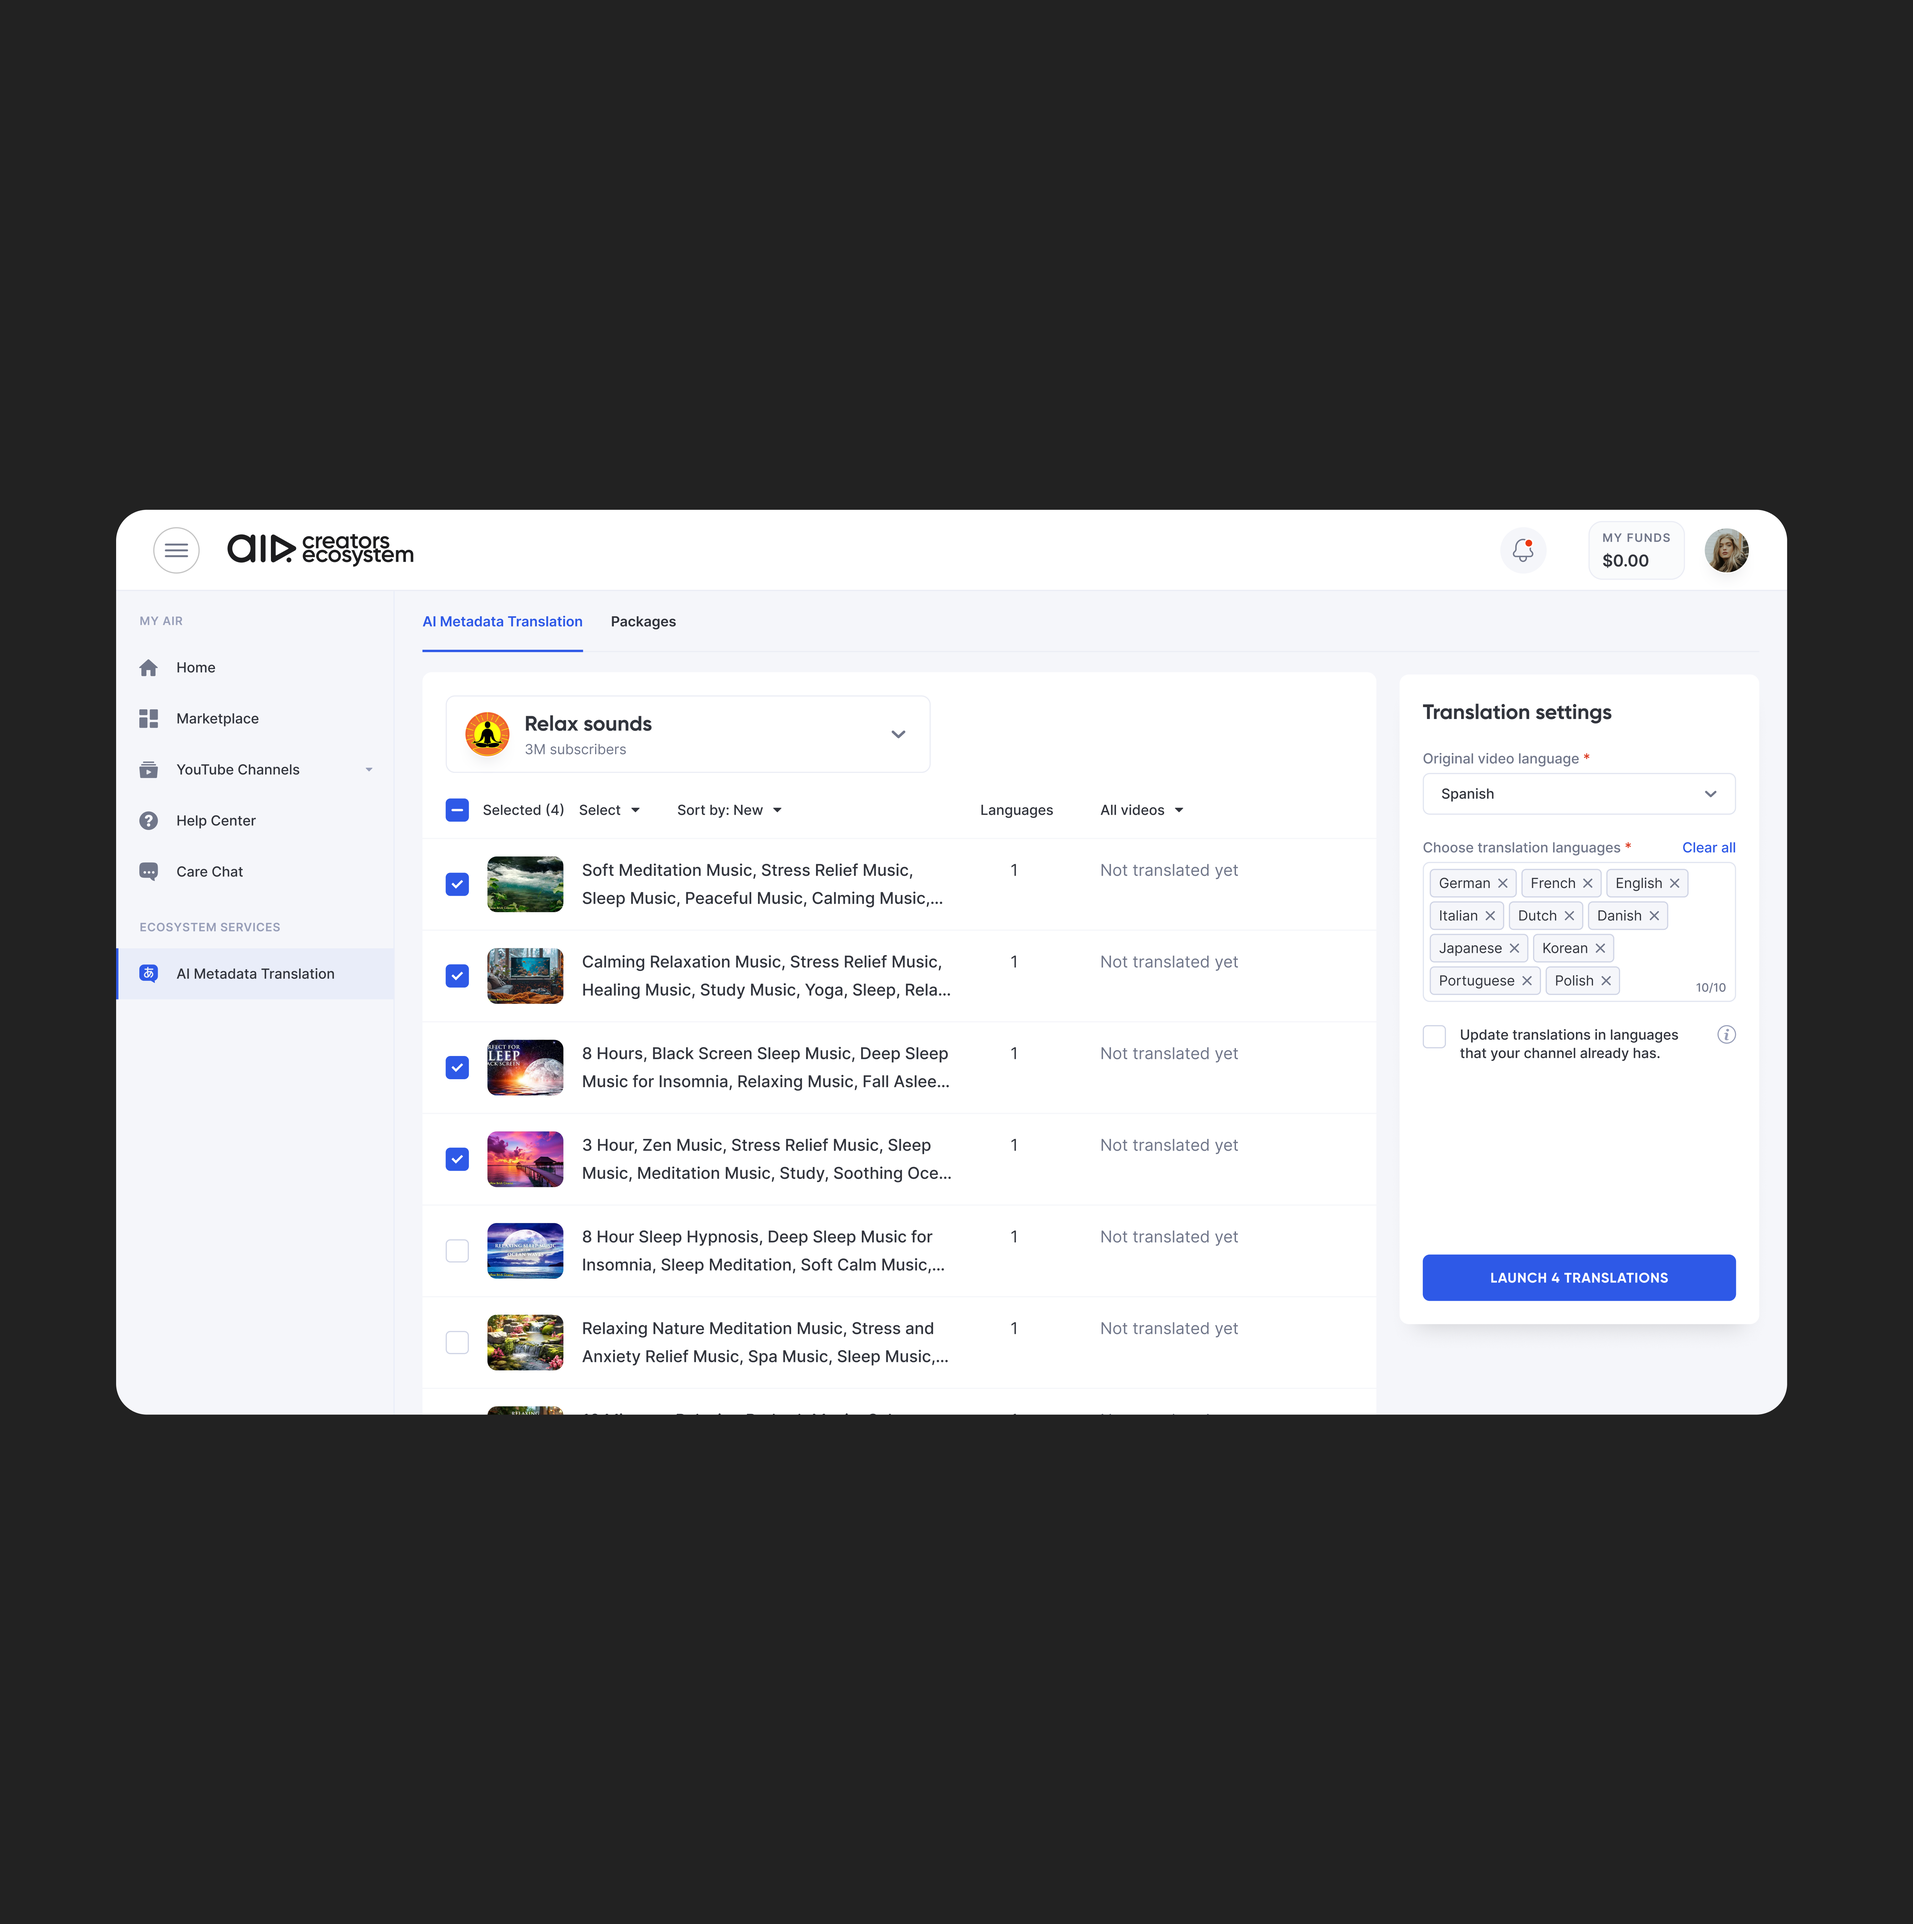
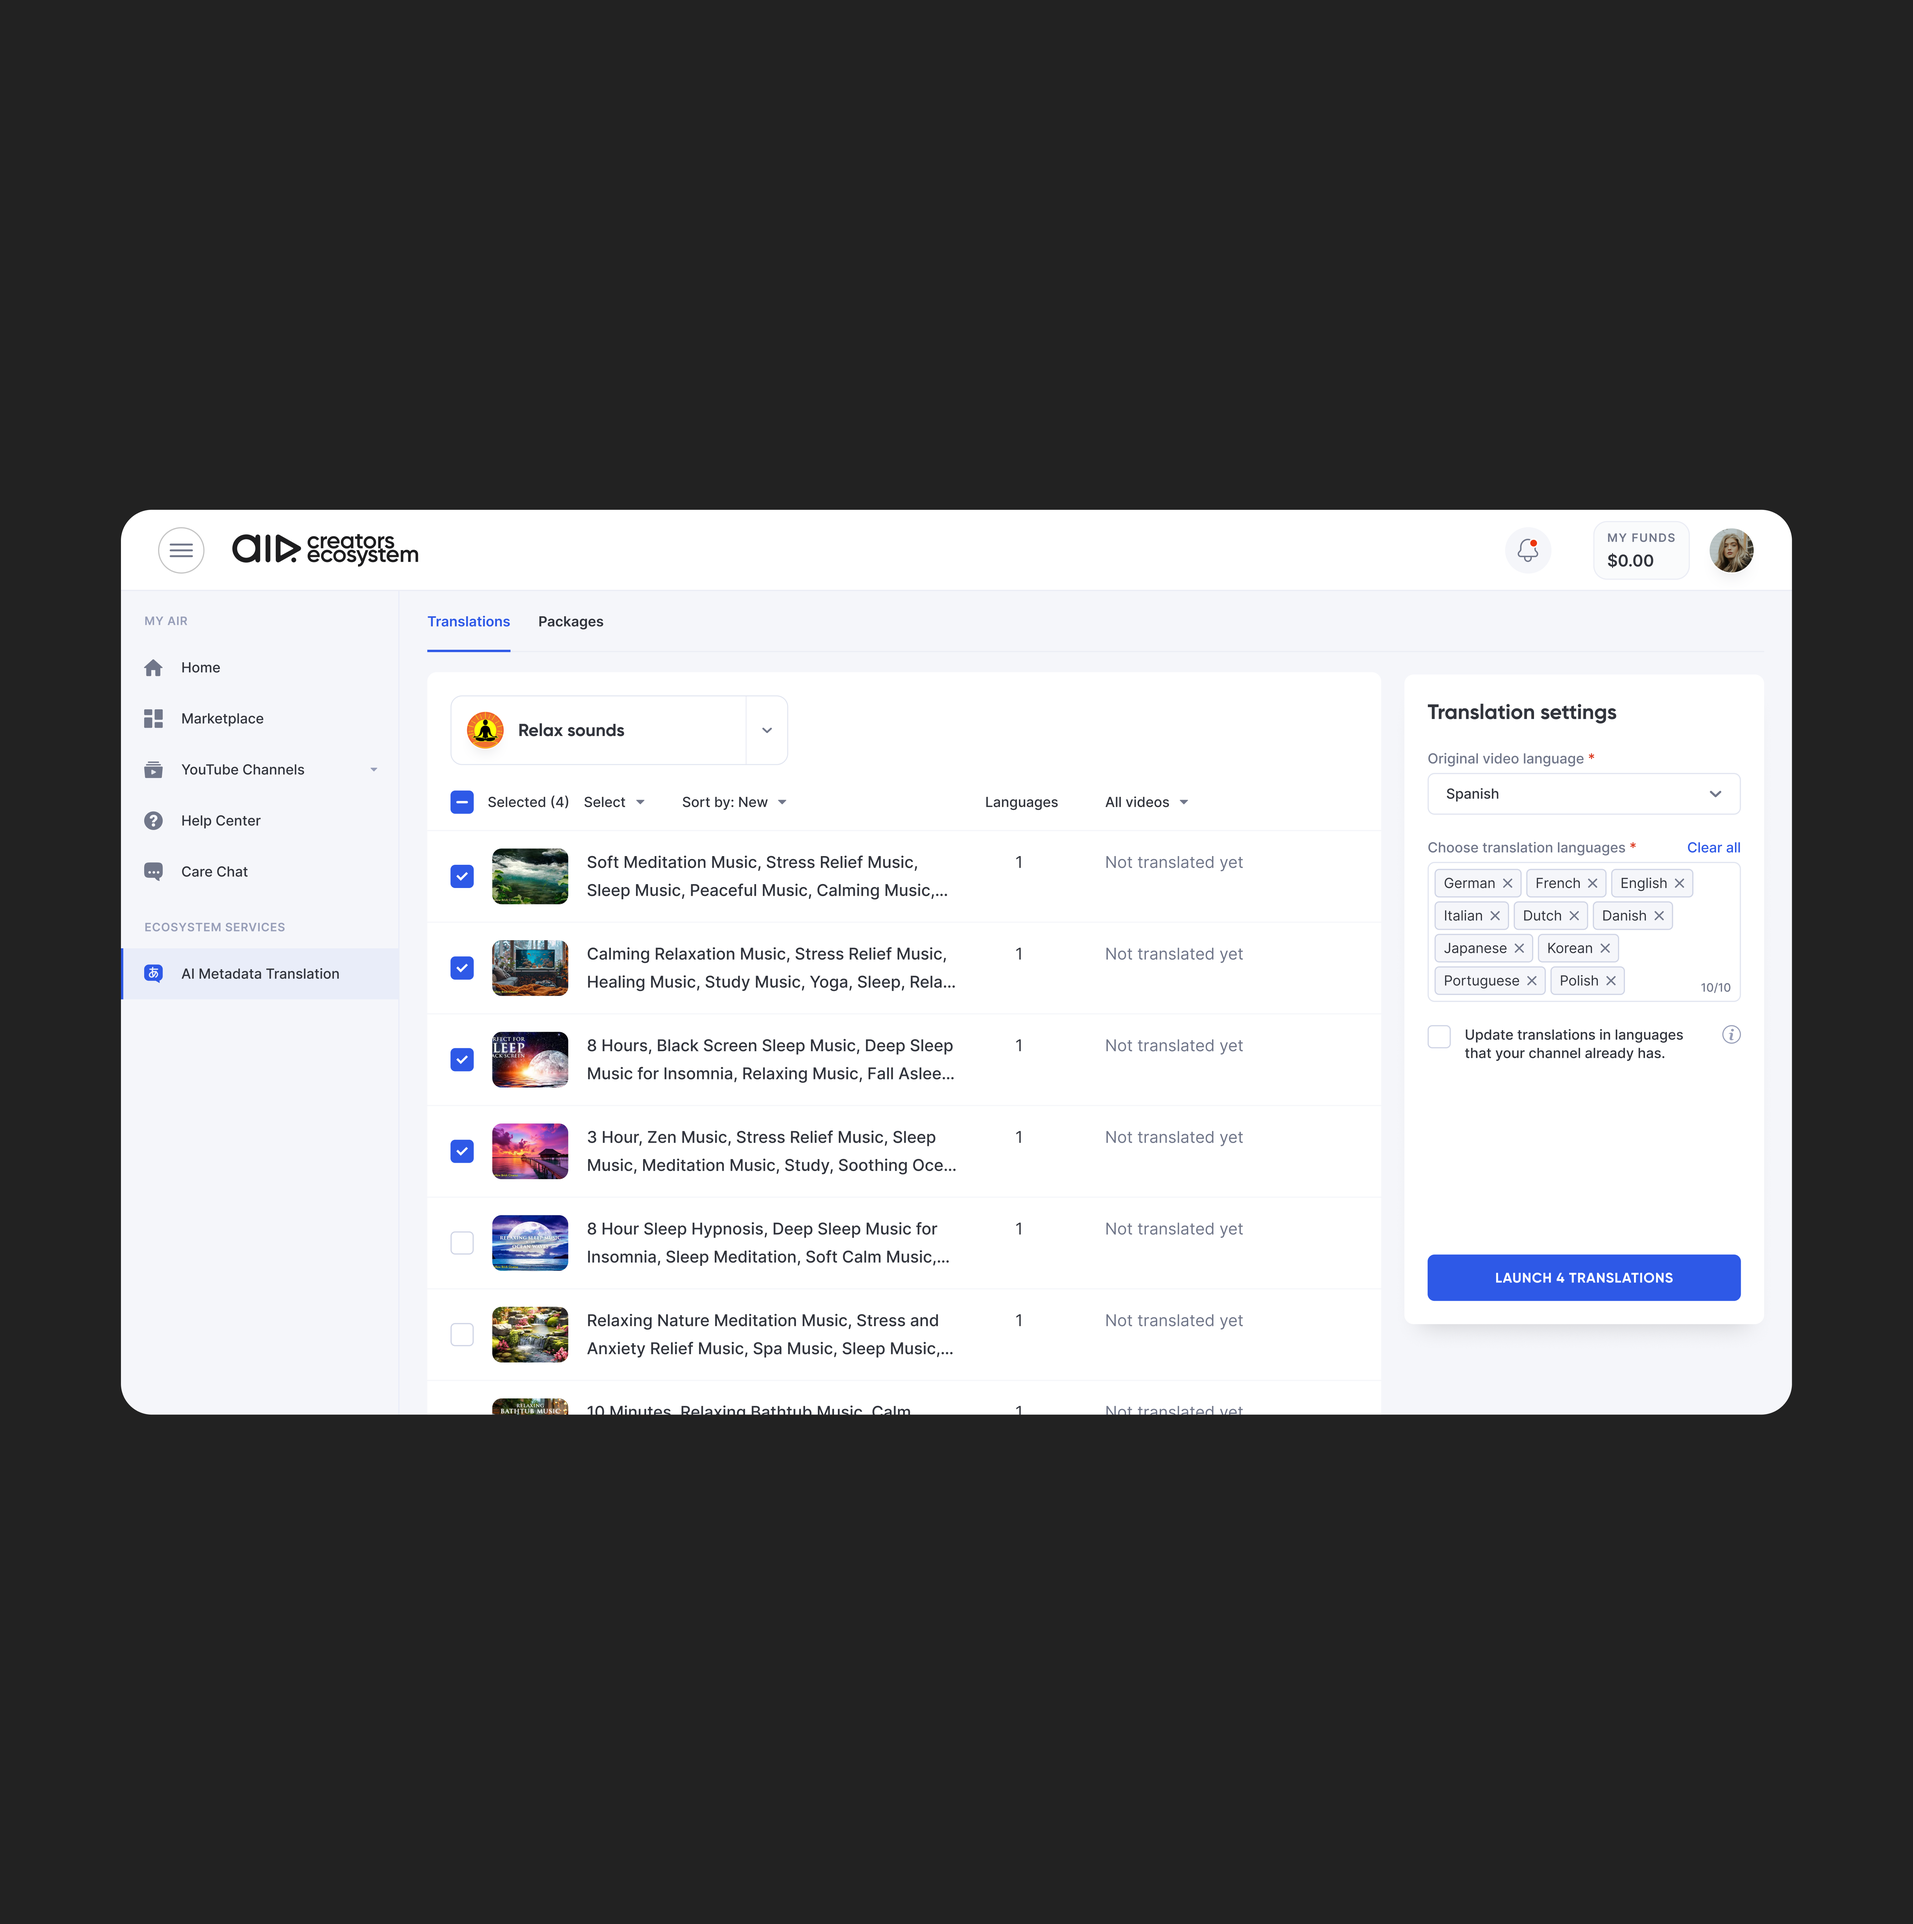
Add Live product links, Royalty card, update card images and order

diff --git a/src/components/Work.jsx b/src/components/Work.jsx
@@ -7,6 +7,7 @@ const projects = [
     image: '/cases/competitive-insights.png',
     icon: '/logos/air-icon.png',
     subtitle: 'AIR MEDIA-TECH',
+    website: 'https://air.io/en',
     metric: '77% weekly return rate · 6× higher consistency',
     description:
       'Initiated and led a 0→1 analytics product for YouTube creators — from C-level workshop and API feasibility research to launch and adoption measurement.',
@@ -23,6 +24,7 @@ const projects = [
     title: 'Creators Ecosystem',
     icon: '/logos/air-icon.svg',
     subtitle: 'AIR MEDIA-TECH',
+    website: 'https://air.io/en',
     metric: 'Coming Soon',
     image: '/cases/creators-ecosystem.png',
     comingSoon: true,
@@ -36,6 +38,7 @@ const projects = [
     title: 'OXYS AI Toolkit',
     icon: '/logos/oxys-icon.svg',
     subtitle: 'AIR MEDIA-TECH',
+    website: 'https://oxys.ai/en',
     metric: 'Coming Soon',
     image: '/cases/oxis-ai-toolkit.png',
     comingSoon: true,
@@ -43,30 +46,32 @@ const projects = [
       'Designed an AI toolkit for YouTube creators from scratch — Comments Analyzer, Metadata Lab, and Idea Generator — across full OAuth, payment, and ecosystem flows.',
   },
   {
-    slug: 'royalty',
-    tags: ['0→1', 'Crypto', 'Startup'],
-    chips: ['0→1', 'Web3', 'Crypto'],
-    title: 'Royalty Web3 Platform',
-    icon: '/logos/royalty-icon.svg',
-    subtitle: 'AIR MEDIA-TECH',
-    metric: 'Coming Soon',
-    image: '',
-    comingSoon: true,
-    description:
-      'Designed a blockchain marketplace for creator revenue tokenization — from concept to beta launch, navigating legal ambiguity and evolving product vision.',
-  },
-  {
     slug: 'ai-metadata-translation',
     tags: ['0→1', 'AI', '200+ languages'],
     chips: ['Ownership · 0→1', 'Managed Design Function', 'Full Cycle Design'],
     title: 'AI Metadata Translation',
-    icon: '/logos/air-icon.png',
+    icon: '/logos/ai-metadata-icon.svg',
     subtitle: 'AIR MEDIA-TECH',
+    website: 'https://metadatatranslation.ai/en',
     metric: 'Coming Soon',
     image: '/cases/ai-metadata-translation.png',
     comingSoon: true,
     description:
       'Led UX for a metadata translation product supporting 200+ languages — 200+ screens in 6 months, including junior designer mentorship.',
+  },
+  {
+    slug: 'royalty',
+    tags: ['0→1', 'Crypto', 'Startup'],
+    chips: ['Leadership · 0→1', 'Blockchain', 'UX Architecture', 'Full Cycle Design'],
+    title: 'Royalty Web3 Platform',
+    icon: '/logos/royalty-icon.svg',
+    subtitle: 'AIR MEDIA-TECH',
+    website: 'https://royalty.io/en',
+    metric: 'Coming Soon',
+    image: '/cases/royalty.png',
+    comingSoon: true,
+    description:
+      'Designed a blockchain marketplace for creator revenue tokenization — from concept to beta launch, navigating legal ambiguity and evolving product vision.',
   },
 ]
 
@@ -96,25 +101,44 @@ function ImagePlaceholder({ image }) {
 function FeaturedCard({ project }) {
   return (
     <div>
-      <a href={project.comingSoon ? undefined : `/work/${project.slug}`} className={`flex items-center gap-4 mb-5 ${!project.comingSoon ? 'hover:opacity-80 transition-opacity' : 'cursor-default'}`}>
-        <div className="w-14 h-14 rounded-2xl bg-[#161616] border border-[#2a2a2a] flex items-center justify-center shrink-0 overflow-hidden">
-          {project.icon
-            ? <img src={project.icon} alt={project.title} className="w-full h-full object-cover" />
-            : <span className="text-white text-sm font-bold">{project.title.split(' ').map(w => w[0]).join('').slice(0,3)}</span>
-          }
-        </div>
-        <div>
-          <h3 className="text-base font-semibold text-white">{project.title}</h3>
+      <div className="flex items-start gap-4 mb-5">
+        <a href={project.comingSoon ? undefined : `/work/${project.slug}`} className={`shrink-0 ${!project.comingSoon ? 'hover:opacity-80 transition-opacity' : 'cursor-default'}`}>
+          <div className="w-14 h-14 rounded-2xl bg-[#161616] border border-[#2a2a2a] flex items-center justify-center overflow-hidden">
+            {project.icon
+              ? <img src={project.icon} alt={project.title} className="w-full h-full object-cover" />
+              : <span className="text-white text-sm font-bold">{project.title.split(' ').map(w => w[0]).join('').slice(0,3)}</span>
+            }
+          </div>
+        </a>
+        <div className="flex-1 min-w-0">
+          <a href={project.comingSoon ? undefined : `/work/${project.slug}`} className={!project.comingSoon ? 'hover:opacity-80 transition-opacity' : 'cursor-default'}>
+            <h3 className="text-base font-semibold text-white">{project.title}</h3>
+          </a>
           {project.subtitle && (
-            <p className="text-[#888888] text-sm mt-0.5">
-              {project.subtitle}
-              {project.metric && (
-                <><span className="mx-2">·</span><span className="text-[#c8f563]">{project.metric}</span></>
+            <div className="flex items-center justify-between mt-0.5">
+              <p className="text-[#888888] text-sm">
+                {project.subtitle}
+                {project.metric && (
+                  <><span className="mx-2">·</span><span className="text-[#c8f563]">{project.metric}</span></>
+                )}
+              </p>
+              {project.website && (
+                <a
+                  href={project.website}
+                  target="_blank"
+                  rel="noopener noreferrer"
+                  className="text-[#888888] hover:text-white hover:underline text-sm transition-colors inline-flex items-center gap-1.5 shrink-0 ml-4"
+                >
+                  Live product
+                  <svg width="11" height="11" viewBox="0 0 24 24" fill="none" stroke="currentColor" strokeWidth="2.5" strokeLinecap="round" strokeLinejoin="round">
+                    <path d="M7 17L17 7M17 7H7M17 7v10"/>
+                  </svg>
+                </a>
               )}
-            </p>
+            </div>
           )}
         </div>
-      </a>
+      </div>
       {project.comingSoon ? (
         <div className="block bg-[#161616] border border-[#2a2a2a] rounded-3xl overflow-hidden relative">
           <ImagePlaceholder image={project.image} />
@@ -175,7 +199,7 @@ function Card({ project }) {
 
 export default function Work() {
   const prodSlugs = ['competitive-insights', 'creators-ecosystem', 'oxis-ai-toolkit']
-  const devSlugs = [...prodSlugs, 'ai-metadata-translation']
+  const devSlugs = [...prodSlugs, 'royalty', 'ai-metadata-translation']
   const visible = projects.filter(p => (import.meta.env.DEV ? devSlugs : prodSlugs).includes(p.slug))
 
   return (
